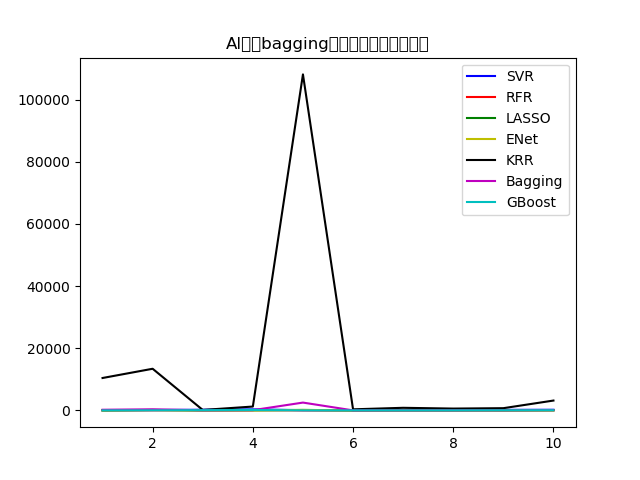
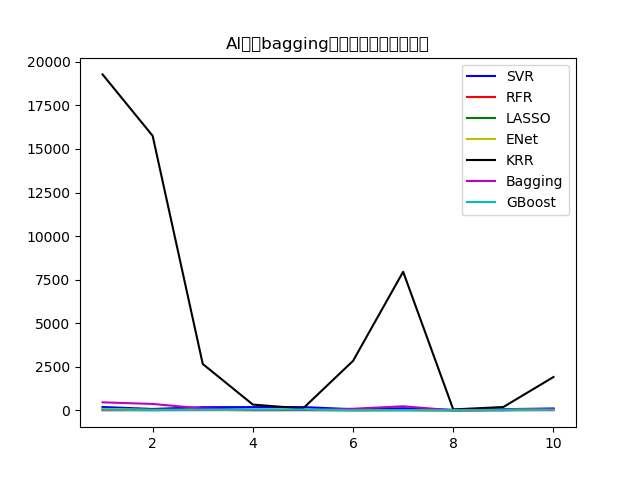
添加不同feature compress rate 实验

diff --git a/CanadaLIBSdata/LIBS_Altest.py b/CanadaLIBSdata/LIBS_Altest.py
@@ -339,12 +339,12 @@ extract_element_dict = {}
 update 20190123
 使用selectPercentile选择相关度高的特征
 """
-def compressFeature(element,x,y):
+def compressFeature(element,x,y,compressRate=10):
     oldX = copy.deepcopy(x)
 
     x = np.array(x)
     y = np.array(y)
-    x = SelectPercentile(f_regression, percentile=10).fit_transform(x, y)
+    x = SelectPercentile(f_regression, percentile=compressRate).fit_transform(x, y)
     originalfeature_indice = []
     for i in range(0, len(x[0])):
         indice = np.where((oldX[0] == x[0][i]) & (oldX[5] == x[5][i]) & (oldX[10] == x[10][i]) & (oldX[15] == x[15][i]))[0]
@@ -368,20 +368,21 @@ def compressFeature(element,x,y):
 :param X 训练使用的X
 :param y 训练使用的y
 :param flag 用来区分输入的X是全光谱还是特征峰，用来区分是否需要输出rfr的importance 对应的特征峰波长
+:param featureCompressRate 特征压缩比
 :param times 重复次数
 """
 import copy
-def elementTest(element,x,y,flag,times = 10):
+def elementTest(element,x,y,flag,featureCompressRate,times = 10):
     SVR_MSE = []
     RFR_MSE = []
     LASSO_MSE = []
     GBoost_MSE = []
     ENet_MSE = []
-    KRR_MSE = []
+    #KRR_MSE = []
     stacking_MSE = []
     bagging_MSE =[]
-    x,y = compressFeature(element,x,y)
-
+    
+    x,y = compressFeature('Al',x,y,featureCompressRate)
 
     for i in range(0,10):
         print()
@@ -431,13 +432,14 @@ def elementTest(element,x,y,flag,times = 10):
         print('LASSO  Mean squared error is ' + str(mean_squared_error(y_test, y_pred)))
         LASSO_MSE.append(mean_squared_error(y_test, y_pred))
         print("Part 4 KRR TEST----------------------------------")
-
+        """
         krr = KernelRidge(alpha=0.6, kernel='polynomial', degree=2, coef0=2.5)
         krr.fit(X_train, y_train)
         y_pred = krr.predict(X_test)
         KRR_MSE.append(mean_squared_error(y_test, y_pred))
+       
         print('KRR Mean squared error is ' + str(mean_squared_error(y_test, y_pred)))
-
+        """
         print("Part 5 Elastic Net TEST----------------------------------")
         ENet = ElasticNet(alpha=0.05, l1_ratio=.9, random_state=3)
         ENet.fit(X_train, y_train)
@@ -456,7 +458,7 @@ def elementTest(element,x,y,flag,times = 10):
 
         print("Part 7 Bagging Experiment---------------------")
 
-        baggingModel = baggingAveragingModels(models=(krr, rfr, svr, GBoost, ENet, lasso))
+        baggingModel = baggingAveragingModels(models=(rfr, svr, GBoost, ENet, lasso))
         baggingModel.fit(X_train, y_train)
         y_pred = baggingModel.predict(X_test)
         bagging_MSE.append(mean_squared_error(y_test, y_pred))
@@ -465,27 +467,27 @@ def elementTest(element,x,y,flag,times = 10):
         print('Bagging squared error is ' + str(mean_squared_error(y_test, y_pred)))
 
         print("Part 8 Stacking Experiment------------------------------")
-        stacked_averaged_models = StackingAveragedModels(base_models=(ENet, GBoost, krr, svr, rfr),
+        stacked_averaged_models = StackingAveragedModels(base_models=(ENet, GBoost, svr, rfr),
                                                          meta_model=lasso)
         stacked_averaged_models.fit(X_train, y_train)
         y_pred = stacked_averaged_models.predict(X_test)
         print('Stacking with metamodel is lasso squared error is ' + str(mean_squared_error(y_test, y_pred)))
         stacking_MSE.append(mean_squared_error(y_test, y_pred))
 
-        stacked_averaged_models = StackingAveragedModels(base_models=(lasso, GBoost, krr, svr, rfr),
+        stacked_averaged_models = StackingAveragedModels(base_models=(lasso, GBoost,  svr, rfr),
                                                          meta_model=ENet)
         stacked_averaged_models.fit(X_train, y_train)
         y_pred = stacked_averaged_models.predict(X_test)
         print('Stacking with metamodel is ENet squared error is ' + str(mean_squared_error(y_test, y_pred)))
         stacking_MSE.append(mean_squared_error(y_test, y_pred))
 
-        stacked_averaged_models = StackingAveragedModels(base_models=(ENet, lasso, krr, svr, rfr),
+        stacked_averaged_models = StackingAveragedModels(base_models=(ENet, lasso,  svr, rfr),
                                                          meta_model=GBoost)
         stacked_averaged_models.fit(X_train, y_train)
         y_pred = stacked_averaged_models.predict(X_test)
         print('Stacking with metamodel is GBoost squared error is ' + str(mean_squared_error(y_test, y_pred)))
         stacking_MSE.append(mean_squared_error(y_test, y_pred))
-
+        krr = KernelRidge(alpha=0.6, kernel='polynomial', degree=2, coef0=2.5)
         stacked_averaged_models = StackingAveragedModels(base_models=(ENet, GBoost, lasso, svr, rfr),
                                                          meta_model=krr)
         stacked_averaged_models.fit(X_train, y_train)
@@ -493,14 +495,14 @@ def elementTest(element,x,y,flag,times = 10):
         print('Stacking with metamodel is krr squared error is ' + str(mean_squared_error(y_test, y_pred)))
         stacking_MSE.append(mean_squared_error(y_test, y_pred))
 
-        stacked_averaged_models = StackingAveragedModels(base_models=(ENet, GBoost, krr, lasso, rfr),
+        stacked_averaged_models = StackingAveragedModels(base_models=(ENet, GBoost,  lasso, rfr),
                                                          meta_model=svr)
         stacked_averaged_models.fit(X_train, y_train)
         y_pred = stacked_averaged_models.predict(X_test)
         print('Stacking with metamodel is svr squared error is ' + str(mean_squared_error(y_test, y_pred)))
         stacking_MSE.append(mean_squared_error(y_test, y_pred))
 
-        stacked_averaged_models = StackingAveragedModels(base_models=(ENet, GBoost, krr, svr, lasso),
+        stacked_averaged_models = StackingAveragedModels(base_models=(ENet, GBoost,  svr, lasso),
                                                          meta_model=rfr)
         stacked_averaged_models.fit(X_train, y_train)
         y_pred = stacked_averaged_models.predict(X_test)
@@ -514,12 +516,12 @@ def elementTest(element,x,y,flag,times = 10):
     plt.plot(plot_x, LASSO_MSE, 'g',label = 'LASSO')
     plt.plot(plot_x, ENet_MSE, 'y',label='ENet')
 
-    plt.plot(plot_x, KRR_MSE, 'k',label ='KRR')
+    #plt.plot(plot_x, KRR_MSE, 'k',label ='KRR')
     plt.plot(plot_x, bagging_MSE, 'M',label = 'Bagging')
     plt.plot(plot_x, GBoost_MSE, 'c',label = 'GBoost')
-    plt.legend(['SVR','RFR','LASSO','ENet','KRR','Bagging','GBoost'])
-    plt.title(element+"元素bagging和单独的学习器的对比")
-    plt.savefig(element + str(1) + ".png")
+    plt.legend(['SVR','RFR','LASSO','ENet','Bagging','GBoost'])
+    plt.title(element+" bagging vs other learner")
+    plt.savefig(element +"with compressRate = "+ str(featureCompressRate) + ".png")
     plt.clf()
     #plt.show()
 
@@ -536,19 +538,20 @@ def elementTest(element,x,y,flag,times = 10):
     sub = stacking_MSE[5::6]
     plt.plot(plot_x, sub, 'm',label = 'meta is rfr')
     plt.legend(['meta is lasso','meta is ENet','meta is GBoost','meta is krr','meta is svr','meta is rfr'])
-    plt.title(element + "元素Stacking对比")
-    plt.savefig(element+str(2)+".png")
+    plt.title(element + " Stacking comparison")
+    plt.savefig(element+" stacking with compressRate = "+str(featureCompressRate)+".png")
+    plt.clf()
     #plt.show()
 
 
     print(str(np.average(SVR_MSE)))
     print(str(np.average(RFR_MSE)))
     print(str(np.average(LASSO_MSE)))
-    print(str(np.average(KRR_MSE)))
+
     print(str(np.average(ENet_MSE)))
     print(str(np.average(GBoost_MSE)))
     print(str(np.average(bagging_MSE)))
-
+    return SVR_MSE,RFR_MSE,LASSO_MSE,ENet_MSE,GBoost_MSE,bagging_MSE,stacking_MSE
 
 
 """
@@ -566,5 +569,33 @@ elementTest('P',X,P_y,0)
 print('2.根据NIST库筛选特征-------------------------')
 
 Al_x = selectFeature('Al')
-elementTest('Al',Al_x,Al_y,1)
+for i in range(1,11):
+
+    svr_avg = []
+    rfr_avg = []
+    lasso_avg = []
+    enet_avg = []
+    gboost_avg = []
+    bag_avg =[]
+    SVR_MSE,RFR_MSE,LASSO_MSE,ENet_MSE,GBoost_MSE,bagging_MSE,stacking_MSE = elementTest('Al',Al_x,Al_y,1,i)
+    svr_avg.append(np.average(SVR_MSE))
+    rfr_avg.append( np.average(RFR_MSE))
+    lasso_avg.append(np.average(LASSO_MSE))
+    enet_avg.append(np.average(ENet_MSE))
+    gboost_avg.append(np.average(GBoost_MSE))
+    bag_avg.append(np.average(bagging_MSE))
+
+plot_x = np.linspace(1,10,10)
+plt.subplot(2,3,1)
+plt.plot(plot_x,svr_avg)
+plt.subplot(2,3,2)
+plt.plot(plot_x,rfr_avg)
+plt.subplot(2,3,3)
+plt.plot(plot_x,lasso_avg)
+plt.subplot(2,3,4)
+plt.plot(plot_x,enet_avg)
+plt.subplot(2,3,5)
+plt.plot(plot_x,gboost_avg)
+plt.subplot(2,3,6)
+plt.plot(plot_x,bag_avg)
 
